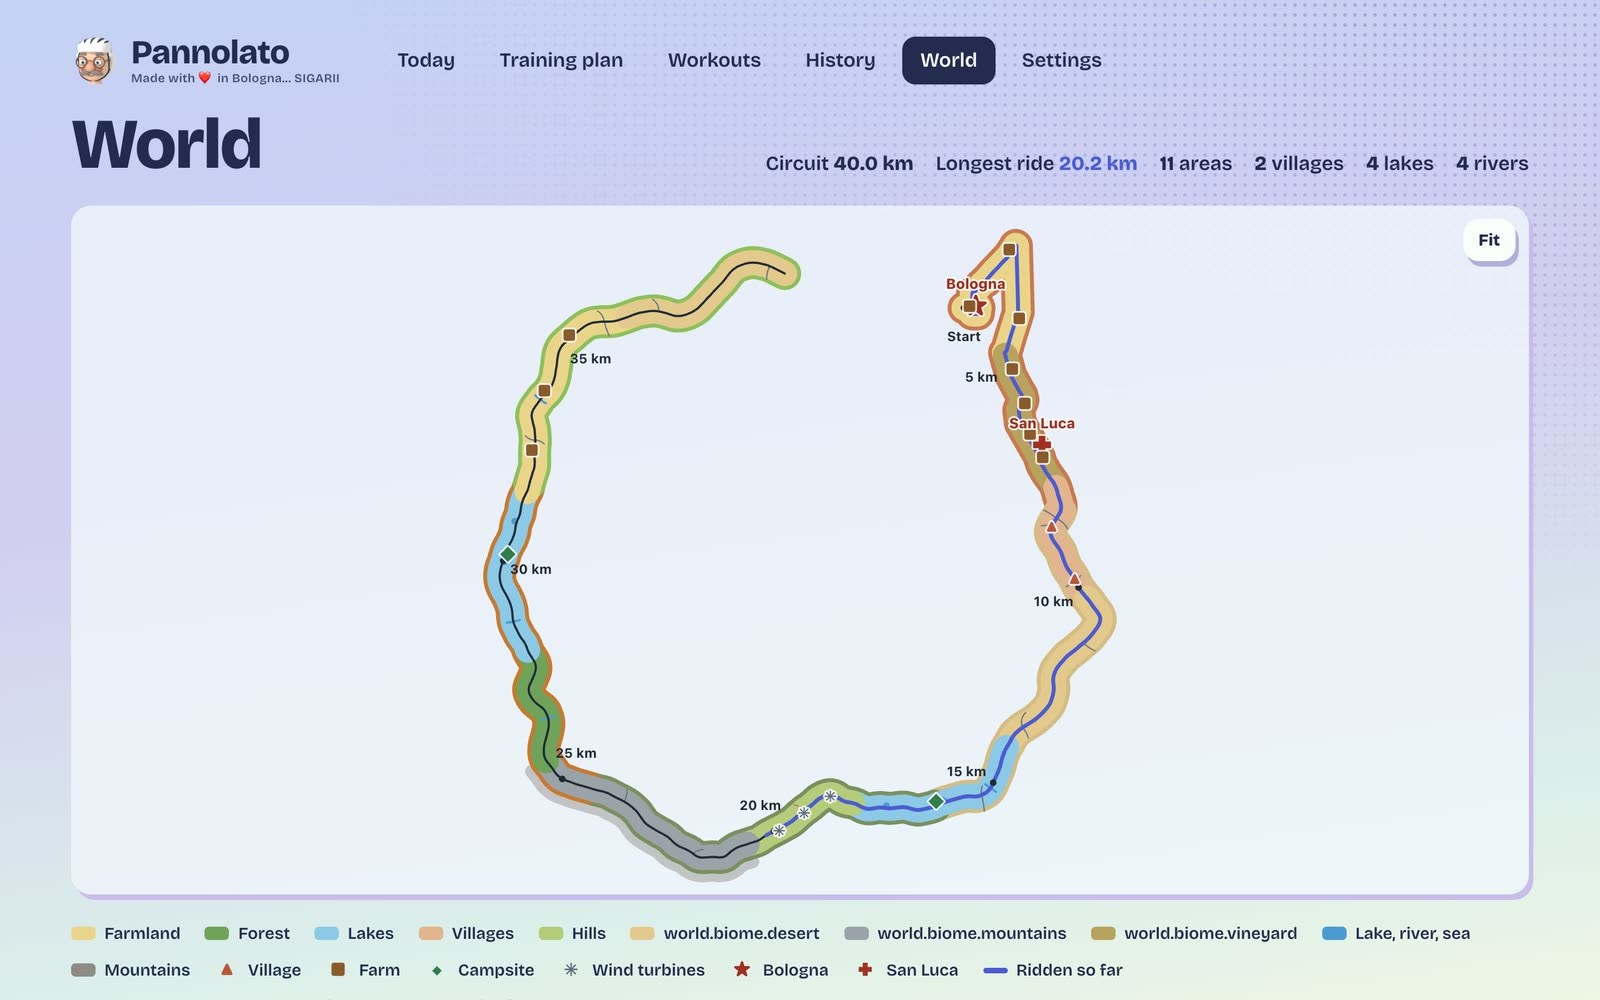
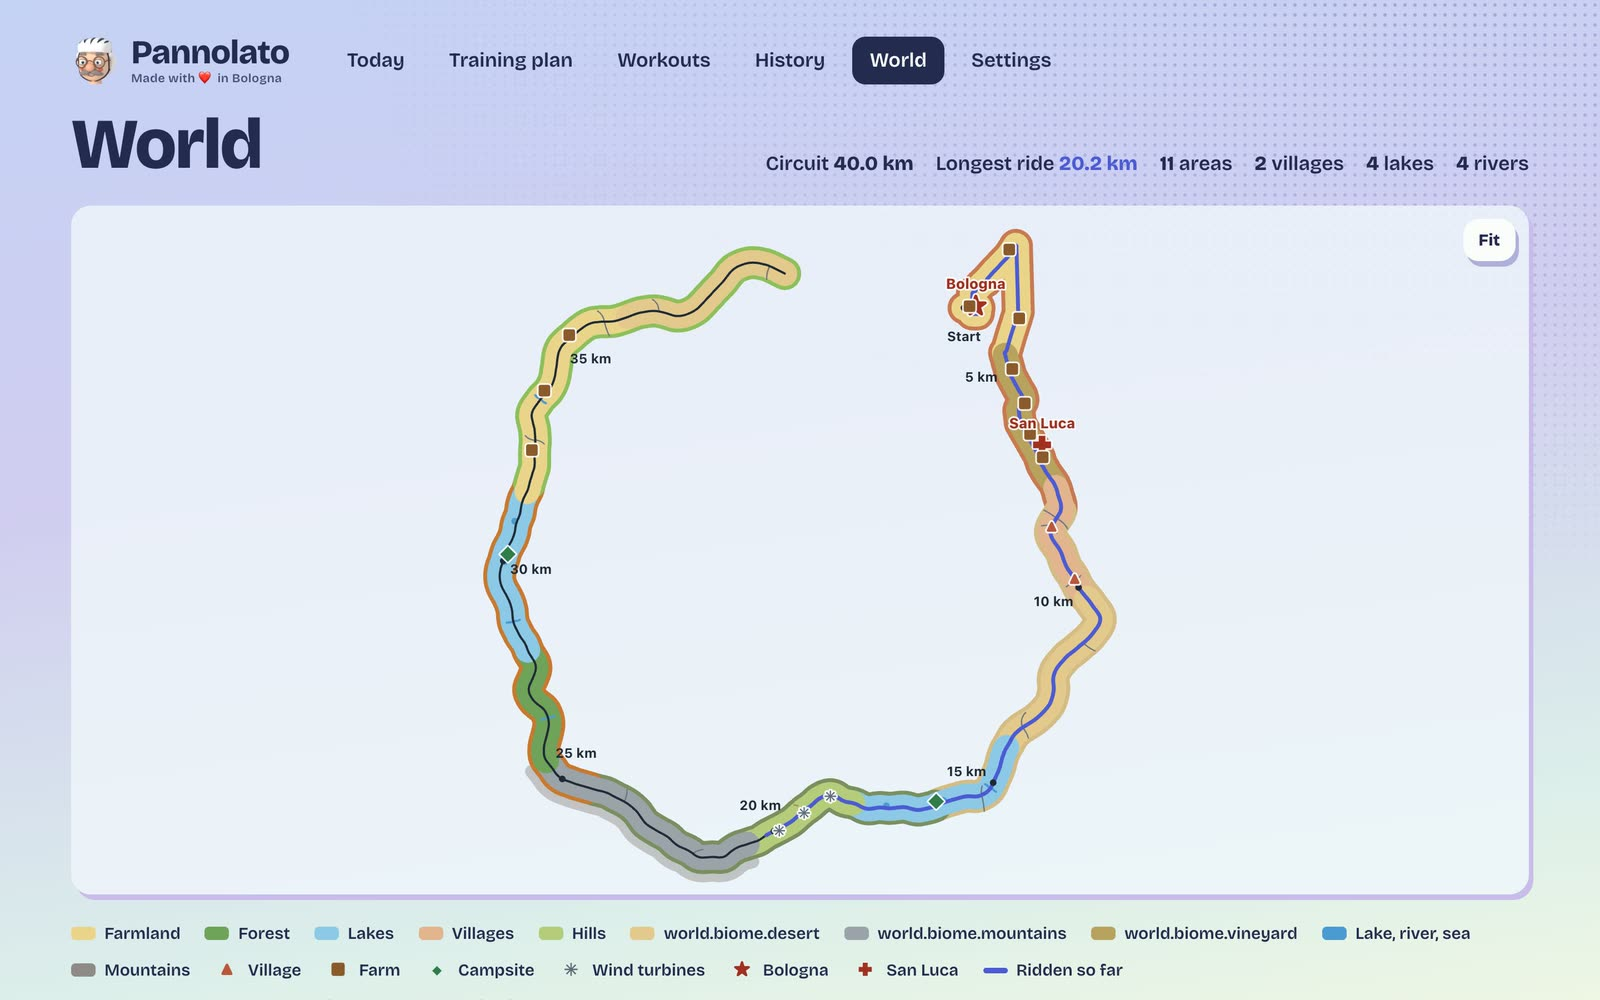
Website: shorter footer line

Changed region(s): [[0.1875, 0.031, 0.6875, 0.093]]

diff --git a/index.html b/index.html
@@ -377,7 +377,7 @@
 
 <footer>
   <div class="wrap">
-    <span>Made with ❤ in Bologna... SIGARII</span>
+    <span>Made with ❤ in Bologna</span>
     <span>No cookies, no trackers. Download clicks are counted without storing IP addresses.</span>
     <a href="https://github.com/filippoboiani/pannolato-releases#readme">Install guide and release notes</a>
   </div>
